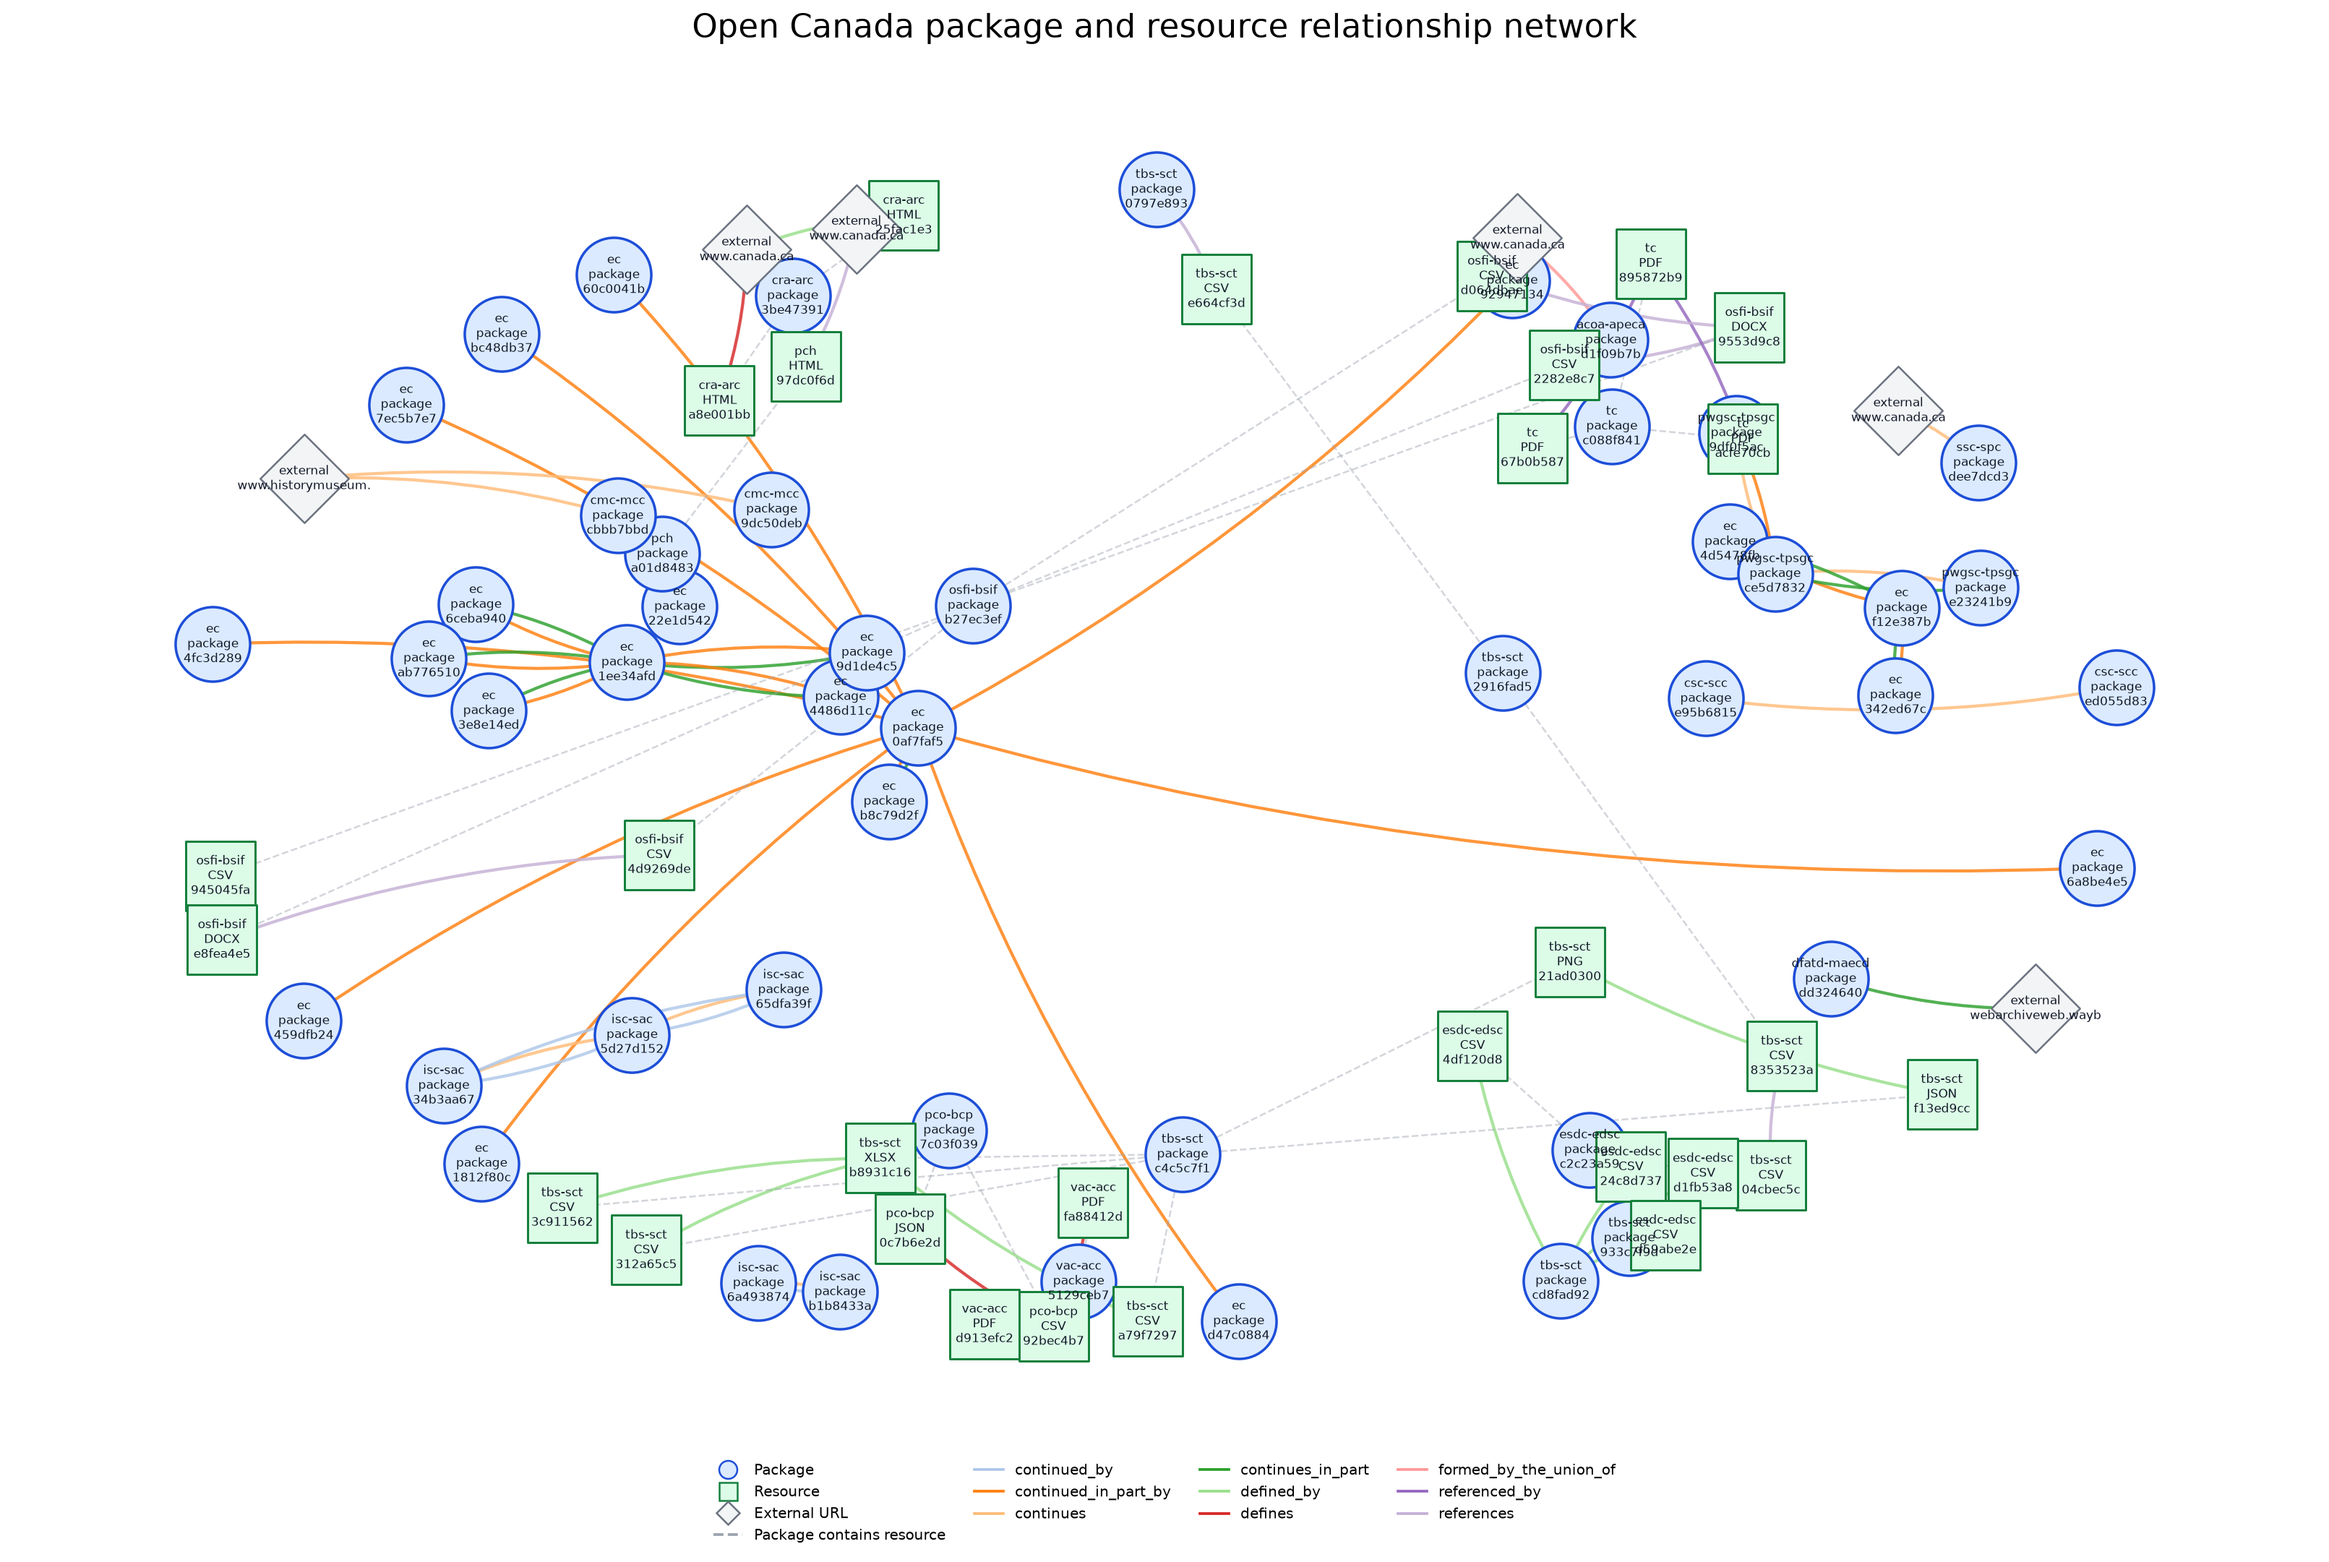
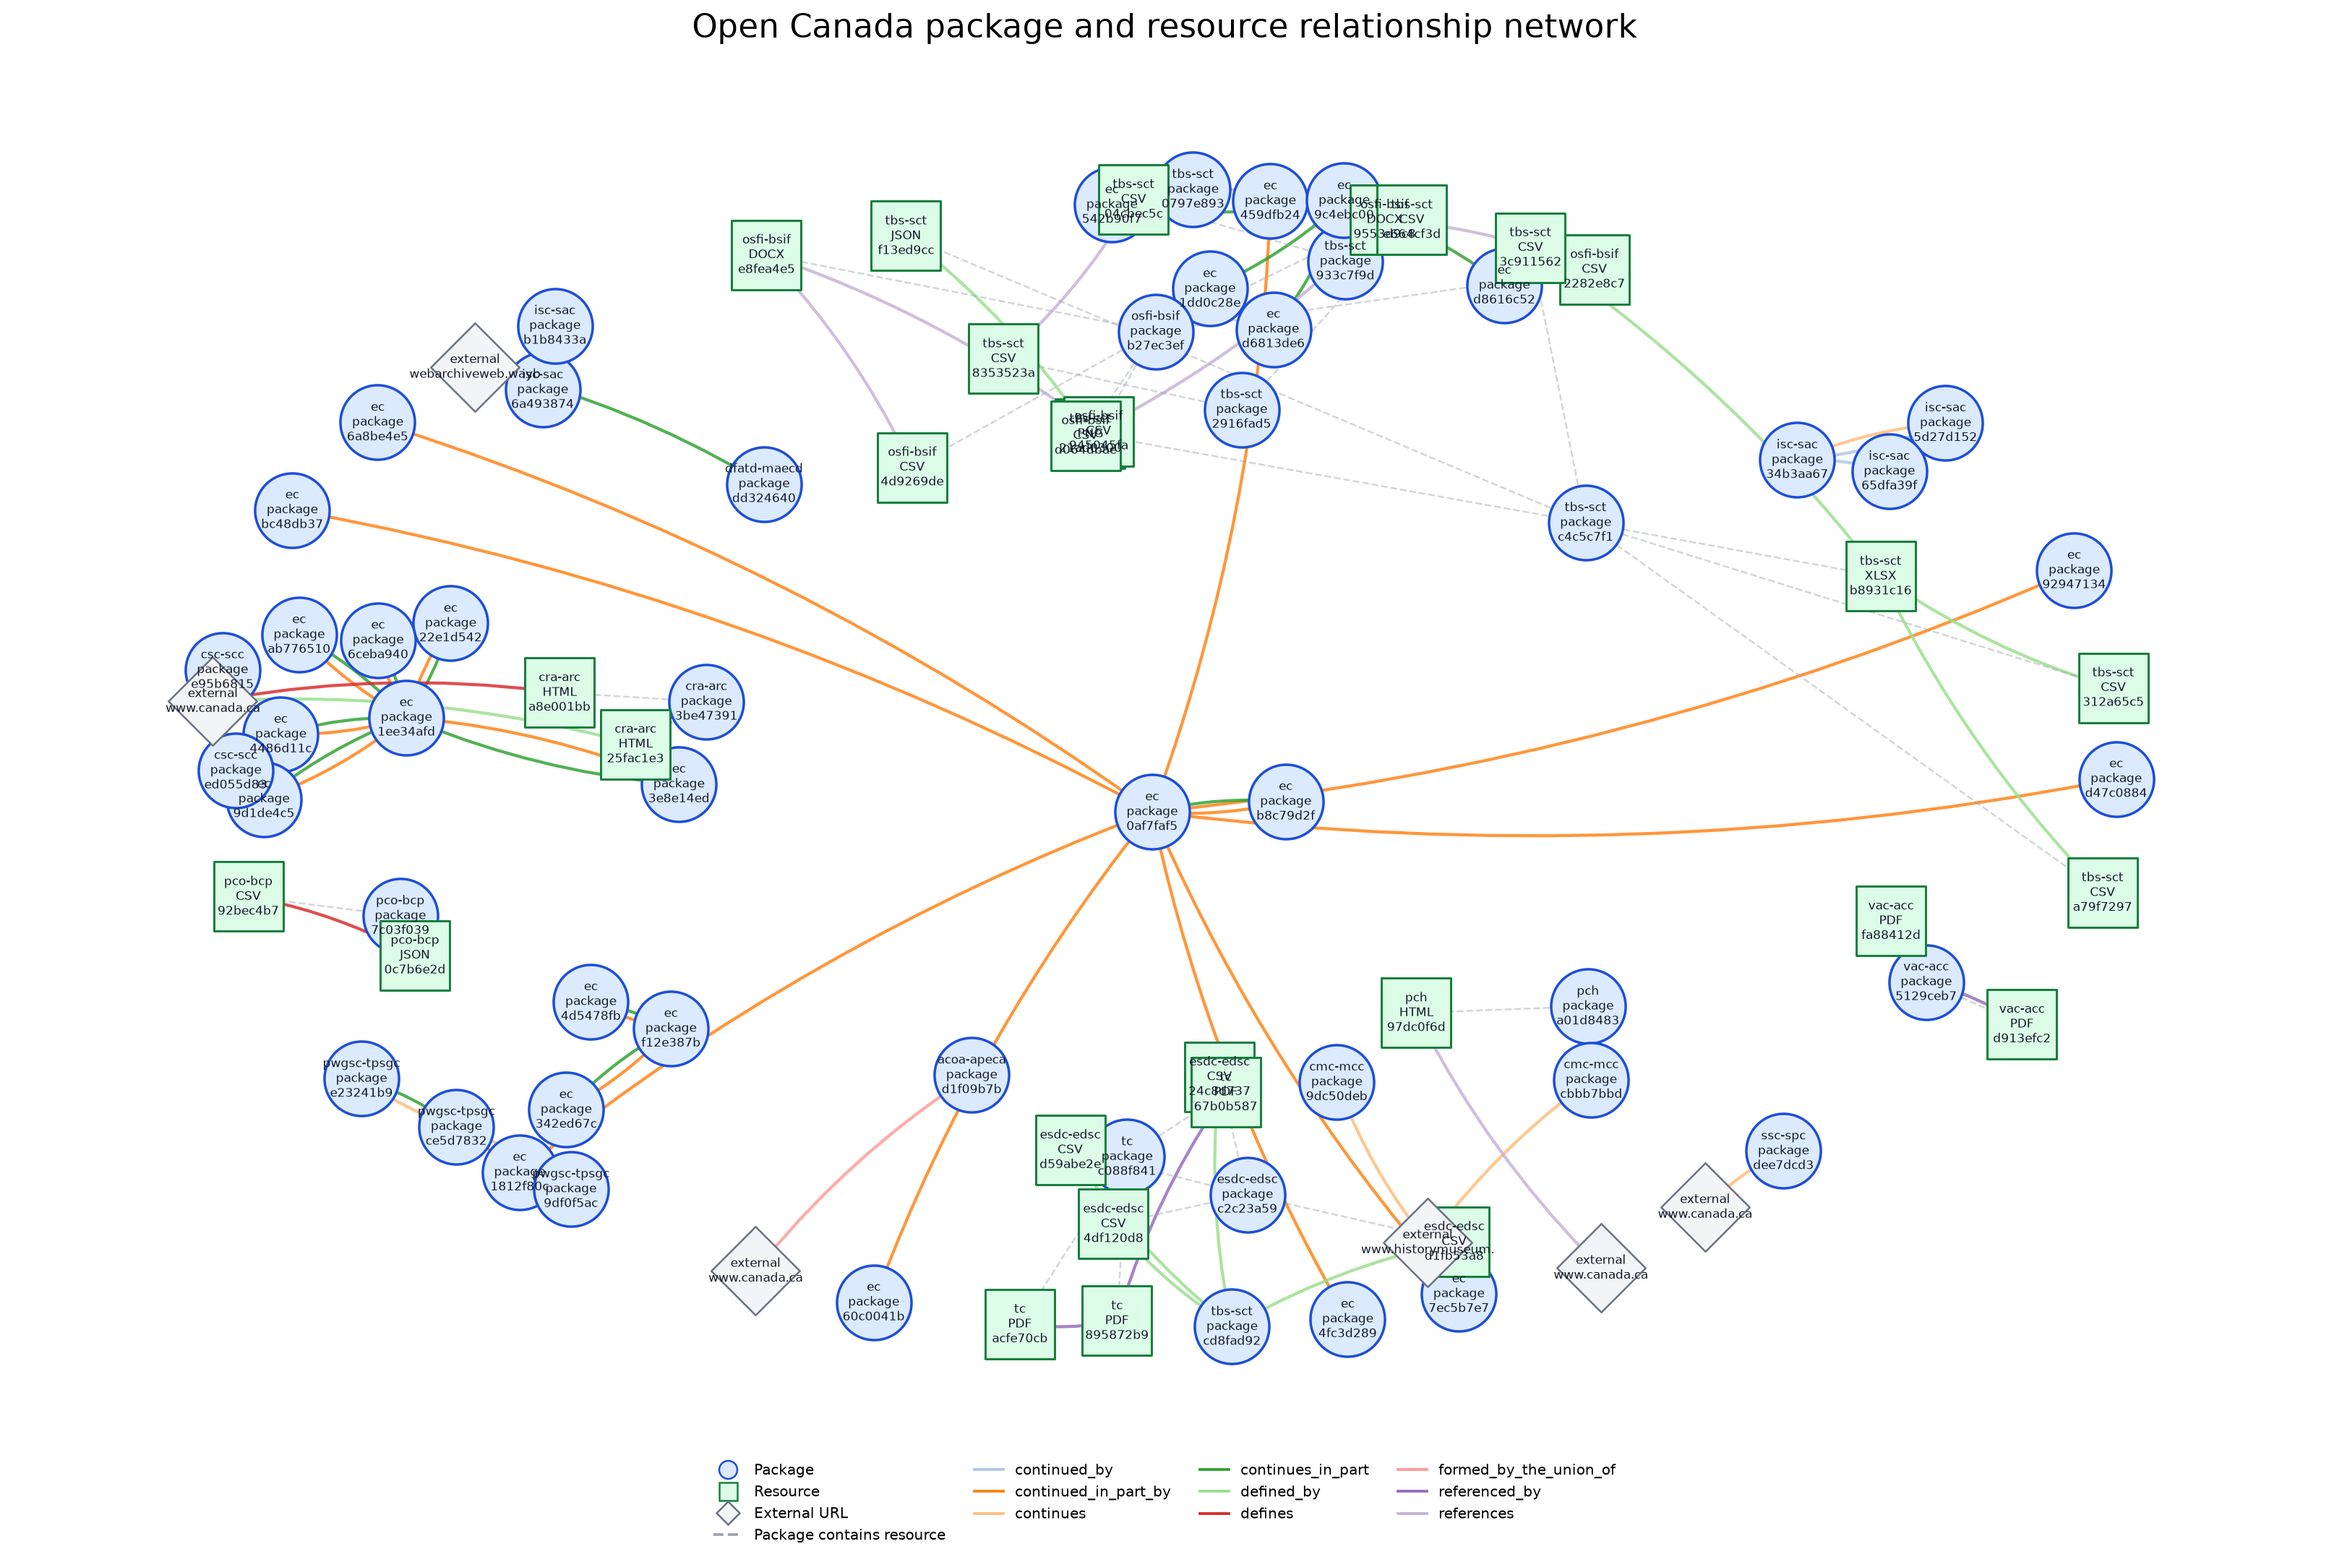
Update relationship network report

diff --git a/DATA_RELS_NETWORK_RPT/charts/ec.md b/DATA_RELS_NETWORK_RPT/charts/ec.md
@@ -4,52 +4,61 @@
 flowchart LR
   N1(["📦 ec package<br/>Waterfowl Surveys in Canada<br/><code>0af7faf5-495c-4074-9cf6-7dc12e6bfe3f</code>"])
   N2(["📦 ec package<br/>Québec Nunavik Great Whale (Grande Baleine) Waterfowl S…<br/><code>1812f80c-7d7e-48c0-8541-848578df0590</code>"])
-  N3(["📦 ec package<br/>Environmental Effects Monitoring (EEM)<br/><code>1ee34afd-47f3-4567-a641-e8815f60073a</code>"])
-  N4(["📦 ec package<br/>Environmental Effects Monitoring (EEM) - Pulp and Paper…<br/><code>22e1d542-a575-454e-a755-2a745d64dc7d</code>"])
-  N5(["📦 ec package<br/>Regional-scale emissions for 16 PAH and 21 Alkylated PA…<br/><code>342ed67c-7a01-436d-93b5-a2de5cba60bb</code>"])
-  N6(["📦 ec package<br/>Pulp and Paper Effluent Regulations Data<br/><code>3e8e14ed-60b9-4d75-bc3d-214c37b6a7a7</code>"])
-  N7(["📦 ec package<br/>Environmental Effects Monitoring (EEM) - Metal and Diam…<br/><code>4486d11c-4b4e-432b-bdb9-af0796e08a05</code>"])
-  N8(["📦 ec package<br/>Québec Lowlands Survey<br/><code>459dfb24-f60d-4c2f-8ea9-1d64039cb5a7</code>"])
-  N9(["📦 ec package<br/>Regional-scale emissions for 29 particulate elements, O…<br/><code>4d5478fb-f403-4734-9a76-867be1f1c74e</code>"])
-  N10(["📦 ec package<br/>Labrador DND Waterfowl Survey 1994-2004<br/><code>4fc3d289-e8eb-4932-ad59-af7db93c8d45</code>"])
-  N11(["📦 ec package<br/>Atlantic Agricultural Waterfowl Survey 2008-2013<br/><code>60c0041b-aa4a-4d9d-a219-a5129343de60</code>"])
-  N12(["📦 ec package<br/>Québec Boréale Waterfowl Survey 1985-1989<br/><code>6a8be4e5-10c6-47ef-bc00-ac438a9f852f</code>"])
-  N13(["📦 ec package<br/>Metal and Diamond Mining Effluent Regulations complianc…<br/><code>6ceba940-efaa-4994-bee7-3ea1930bedad</code>"])
-  N14(["📦 ec package<br/>Northern Ontario Waterfowl Survey 1980-2008<br/><code>7ec5b7e7-9fcc-42c3-a748-8cda0c40aa35</code>"])
-  N15(["📦 ec package<br/>Prince Edward Island Waterfowl Survey 2016<br/><code>92947134-b3d7-4759-9f26-9819a42813e5</code>"])
-  N16(["📦 ec package<br/>Environmental Effects Monitoring (EEM) - Metal and Diam…<br/><code>9d1de4c5-7e6c-45f7-b71b-aee314cc79ea</code>"])
-  N17(["📦 ec package<br/>Environmental Effects Monitoring (EEM) - Metal and Diam…<br/><code>ab776510-8a9c-4607-bd90-2d4733a6a78c</code>"])
-  N18(["📦 ec package<br/>Eastern Waterfowl Survey (EWS25)<br/><code>b8c79d2f-3bd7-4f26-8102-be268be1582b</code>"])
-  N19(["📦 ec package<br/>Québec BCR7 Scoter and Late Nester Survey 2014<br/><code>bc48db37-f63b-41c7-95b6-ef81d3a0ea88</code>"])
-  N20(["📦 ec package<br/>Northern Canada Scoter Survey 2017-2019<br/><code>d47c0884-d331-4c55-8b9d-a23fe0d3a965</code>"])
-  N21(["📦 ec package<br/>Regional-Scale Dispersion Modeling of Emissions, Concen…<br/><code>f12e387b-5c72-4358-9dc1-c58a1121ebd5</code>"])
+  N3(["📦 ec package<br/>Canadian Homogenized Monthly Precipitation (CanHoPmly)<br/><code>1dd0c28e-2266-42e2-8985-2f47659e9d02</code>"])
+  N4(["📦 ec package<br/>Environmental Effects Monitoring (EEM)<br/><code>1ee34afd-47f3-4567-a641-e8815f60073a</code>"])
+  N5(["📦 ec package<br/>Environmental Effects Monitoring (EEM) - Pulp and Paper…<br/><code>22e1d542-a575-454e-a755-2a745d64dc7d</code>"])
+  N6(["📦 ec package<br/>Regional-scale emissions for 16 PAH and 21 Alkylated PA…<br/><code>342ed67c-7a01-436d-93b5-a2de5cba60bb</code>"])
+  N7(["📦 ec package<br/>Pulp and Paper Effluent Regulations Data<br/><code>3e8e14ed-60b9-4d75-bc3d-214c37b6a7a7</code>"])
+  N8(["📦 ec package<br/>Environmental Effects Monitoring (EEM) - Metal and Diam…<br/><code>4486d11c-4b4e-432b-bdb9-af0796e08a05</code>"])
+  N9(["📦 ec package<br/>Québec Lowlands Survey<br/><code>459dfb24-f60d-4c2f-8ea9-1d64039cb5a7</code>"])
+  N10(["📦 ec package<br/>Regional-scale emissions for 29 particulate elements, O…<br/><code>4d5478fb-f403-4734-9a76-867be1f1c74e</code>"])
+  N11(["📦 ec package<br/>Labrador DND Waterfowl Survey 1994-2004<br/><code>4fc3d289-e8eb-4932-ad59-af7db93c8d45</code>"])
+  N12(["📦 ec package<br/>Canadian Homogenized Surface Air Temperature (CanHomT V…<br/><code>542b90f7-ab39-452c-be5c-2afebdc4724c</code>"])
+  N13(["📦 ec package<br/>Atlantic Agricultural Waterfowl Survey 2008-2013<br/><code>60c0041b-aa4a-4d9d-a219-a5129343de60</code>"])
+  N14(["📦 ec package<br/>Québec Boréale Waterfowl Survey 1985-1989<br/><code>6a8be4e5-10c6-47ef-bc00-ac438a9f852f</code>"])
+  N15(["📦 ec package<br/>Metal and Diamond Mining Effluent Regulations complianc…<br/><code>6ceba940-efaa-4994-bee7-3ea1930bedad</code>"])
+  N16(["📦 ec package<br/>Northern Ontario Waterfowl Survey 1980-2008<br/><code>7ec5b7e7-9fcc-42c3-a748-8cda0c40aa35</code>"])
+  N17(["📦 ec package<br/>Prince Edward Island Waterfowl Survey 2016<br/><code>92947134-b3d7-4759-9f26-9819a42813e5</code>"])
+  N18(["📦 ec package<br/>Adjusted and Homogenized Canadian Climate Data (AHCCD)<br/><code>9c4ebc00-3ea4-4fe0-8bf2-66cfe1cddd1d</code>"])
+  N19(["📦 ec package<br/>Environmental Effects Monitoring (EEM) - Metal and Diam…<br/><code>9d1de4c5-7e6c-45f7-b71b-aee314cc79ea</code>"])
+  N20(["📦 ec package<br/>Environmental Effects Monitoring (EEM) - Metal and Diam…<br/><code>ab776510-8a9c-4607-bd90-2d4733a6a78c</code>"])
+  N21(["📦 ec package<br/>Eastern Waterfowl Survey (EWS25)<br/><code>b8c79d2f-3bd7-4f26-8102-be268be1582b</code>"])
+  N22(["📦 ec package<br/>Québec BCR7 Scoter and Late Nester Survey 2014<br/><code>bc48db37-f63b-41c7-95b6-ef81d3a0ea88</code>"])
+  N23(["📦 ec package<br/>Northern Canada Scoter Survey 2017-2019<br/><code>d47c0884-d331-4c55-8b9d-a23fe0d3a965</code>"])
+  N24(["📦 ec package<br/>Adjusted and Homogenized Canadian Climate Data – Daily …<br/><code>d6813de6-b20a-46cc-8990-01862ae15c5f</code>"])
+  N25(["📦 ec package<br/>Adjusted daily rainfall and snowfall dataset for Canada<br/><code>d8616c52-a812-44ad-8754-7bcc0d8de305</code>"])
+  N26(["📦 ec package<br/>Regional-Scale Dispersion Modeling of Emissions, Concen…<br/><code>f12e387b-5c72-4358-9dc1-c58a1121ebd5</code>"])
   N1 -- "continued_in_part_by" --> N2
-  N1 -- "continued_in_part_by" --> N8
-  N1 -- "continued_in_part_by" --> N10
+  N1 -- "continued_in_part_by" --> N9
   N1 -- "continued_in_part_by" --> N11
-  N1 -- "continued_in_part_by" --> N12
+  N1 -- "continued_in_part_by" --> N13
   N1 -- "continued_in_part_by" --> N14
-  N1 -- "continued_in_part_by" --> N15
-  N1 -- "continued_in_part_by" --> N18
-  N1 -- "continued_in_part_by" --> N19
-  N1 -- "continued_in_part_by" --> N20
-  N3 -- "continues_in_part" --> N4
-  N3 -- "continues_in_part" --> N6
-  N3 -- "continues_in_part" --> N7
-  N3 -- "continues_in_part" --> N13
-  N3 -- "continues_in_part" --> N16
-  N3 -- "continues_in_part" --> N17
-  N4 -- "continued_in_part_by" --> N3
-  N5 -- "continued_in_part_by" --> N21
-  N6 -- "continued_in_part_by" --> N3
-  N7 -- "continued_in_part_by" --> N3
-  N9 -- "continued_in_part_by" --> N21
-  N13 -- "continued_in_part_by" --> N3
-  N16 -- "continued_in_part_by" --> N3
-  N17 -- "continued_in_part_by" --> N3
-  N18 -- "continues_in_part" --> N1
-  N21 -- "continues_in_part" --> N5
-  N21 -- "continues_in_part" --> N9
+  N1 -- "continued_in_part_by" --> N16
+  N1 -- "continued_in_part_by" --> N17
+  N1 -- "continued_in_part_by" --> N21
+  N1 -- "continued_in_part_by" --> N22
+  N1 -- "continued_in_part_by" --> N23
+  N3 -- "continues_in_part" --> N18
+  N4 -- "continues_in_part" --> N5
+  N4 -- "continues_in_part" --> N7
+  N4 -- "continues_in_part" --> N8
+  N4 -- "continues_in_part" --> N15
+  N4 -- "continues_in_part" --> N19
+  N4 -- "continues_in_part" --> N20
+  N5 -- "continued_in_part_by" --> N4
+  N6 -- "continued_in_part_by" --> N26
+  N7 -- "continued_in_part_by" --> N4
+  N8 -- "continued_in_part_by" --> N4
+  N10 -- "continued_in_part_by" --> N26
+  N12 -- "continues_in_part" --> N18
+  N15 -- "continued_in_part_by" --> N4
+  N19 -- "continued_in_part_by" --> N4
+  N20 -- "continued_in_part_by" --> N4
+  N21 -- "continues_in_part" --> N1
+  N24 -- "continues_in_part" --> N18
+  N25 -- "continues_in_part" --> N18
+  N26 -- "continues_in_part" --> N6
+  N26 -- "continues_in_part" --> N10
   class N1 seed
   class N2 seed
   class N3 seed
@@ -71,6 +80,11 @@ flowchart LR
   class N19 seed
   class N20 seed
   class N21 seed
+  class N22 seed
+  class N23 seed
+  class N24 seed
+  class N25 seed
+  class N26 seed
   classDef seed fill:#dbeafe,stroke:#1d4ed8,stroke-width:2px,color:#111827
   classDef other fill:#ecfccb,stroke:#4d7c0f,stroke-width:1px,color:#111827
   classDef url fill:#f3f4f6,stroke:#6b7280,stroke-dasharray: 4 3,color:#111827

diff --git a/DATA_RELS_NETWORK_RPT/README.md b/DATA_RELS_NETWORK_RPT/README.md
@@ -2,7 +2,7 @@
 
 <!-- RELATIONSHIP_NETWORK_REPORT_START -->
 [![Data Relationships Network Report](https://github.com/open-data/analytics-corporate-reporting/actions/workflows/data_rels_network_rpt.yml/badge.svg)](https://github.com/open-data/analytics-corporate-reporting/actions/workflows/data_rels_network_rpt.yml)
-![Last updated](https://img.shields.io/badge/last%20updated-2026--08--05-2f855a)
+![Last updated](https://img.shields.io/badge/last%20updated-2026--08--06-2f855a)
 
 [![Open in Flatdata Viewer](https://img.shields.io/badge/Open%20in%20Flatdata%20Viewer-FF00E8?style=for-the-badge&logo=github&logoColor=black)](https://flatgithub.com/open-data/analytics-corporate-reporting?filename=DATA_RELS_NETWORK_RPT/relationship_network_stats.csv)
 
@@ -10,12 +10,12 @@
 
 ## Current Summary
 
-- Last updated: `2026-08-05`
+- Last updated: `2026-08-06`
 - Departments with relationships: `16`
-- Source relationship edges: `66`
-- Expanded relationship edges: `66`
-- Rendered nodes across department charts: `83`
-- Package nodes: `48`
+- Source relationship edges: `70`
+- Expanded relationship edges: `70`
+- Rendered nodes across department charts: `88`
+- Package nodes: `53`
 - Resource nodes: `29`
 - External URL nodes: `6`
 - Cross-department resolved edges: `4`
@@ -25,7 +25,7 @@
 
 | Department | Nodes | Source edges | Expanded edges | Connected departments |
 |---|---:|---:|---:|---|
-| ec | 21 | 27 | 27 | ec |
+| ec | 26 | 31 | 31 | ec |
 | tbs-sct | 13 | 6 | 6 | tbs-sct |
 | osfi-bsif | 7 | 4 | 4 | osfi-bsif |
 | esdc-edsc | 6 | 4 | 4 | esdc-edsc;tbs-sct |

diff --git a/datastore_tracker/README.md b/datastore_tracker/README.md
@@ -23,7 +23,7 @@ config:
   theme: dark
 ---
 pie showData title Resource Validation Status
-    "success": 4023
+    "success": 4024
     "failure": 2877
 ```
 
@@ -38,7 +38,7 @@ config:
   theme: dark
 ---
 pie showData title Resource View Types
-    "datatables_view": 3783
+    "datatables_view": 3785
     "text_view": 212
     "image_view": 4
     "openapi_view": 4
@@ -87,7 +87,7 @@ pie showData title Resource View Types
 | open.canada.ca | pco-bcp | 3 |
 | open.canada.ca | phac-aspc | 42 |
 | open.canada.ca | ps-sp | 2 |
-| open.canada.ca | psc-cfp | 154 |
+| open.canada.ca | psc-cfp | 155 |
 | open.canada.ca | pwgsc-tpsgc | 1 |
 | open.canada.ca | rcmp-grc | 1 |
 | open.canada.ca | ssc-spc | 41 |
@@ -132,7 +132,7 @@ pie showData title Top 20 Orgs by View Count
     "esdc-edsc": 639
     "tbs-sct": 311
     "cfia-acia": 216
-    "psc-cfp": 184
+    "psc-cfp": 186
     "hc-sc": 175
     "nrcan-rncan": 76
     "osfi-bsif": 74

diff --git a/datastore_tracker/resource_owners_pie_chart.md b/datastore_tracker/resource_owners_pie_chart.md
@@ -10,7 +10,7 @@ pie showData title Top 20 Orgs by View Count
     "esdc-edsc": 639
     "tbs-sct": 311
     "cfia-acia": 216
-    "psc-cfp": 184
+    "psc-cfp": 186
     "hc-sc": 175
     "nrcan-rncan": 76
     "osfi-bsif": 74

diff --git a/datastore_tracker/resource_view_types_pie_chart.md b/datastore_tracker/resource_view_types_pie_chart.md
@@ -5,7 +5,7 @@ config:
   theme: dark
 ---
 pie showData title Resource View Types
-    "datatables_view": 3783
+    "datatables_view": 3785
     "text_view": 212
     "image_view": 4
     "openapi_view": 4

diff --git a/datastore_tracker/resource_validation_status_pie_chart.md b/datastore_tracker/resource_validation_status_pie_chart.md
@@ -5,6 +5,6 @@ config:
   theme: dark
 ---
 pie showData title Resource Validation Status
-    "success": 4023
+    "success": 4024
     "failure": 2877
 ```
